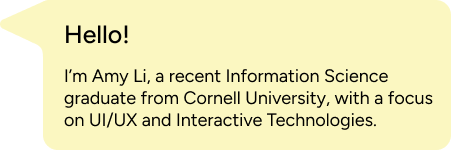
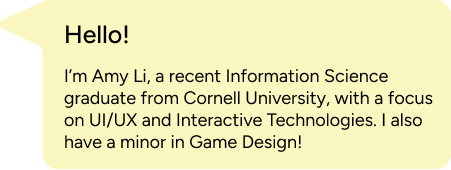
updated pages to have updated resume, and textbox

diff --git a/legooserystore.html b/legooserystore.html
@@ -18,9 +18,22 @@
 
 <body>
   <nav>
-    <ul class="nav"">
+    <ul class="nav">
       <li> <a class="hometext" href="index.html"> Amy Li </a> </li>
-      <li> <a class="navtext resumebutton" href="resources/Amy_Li_Resume_UXDesign_2025.pdf"> Resume </a> </li>
+      <li> 
+        <div>
+          <button id="resumebutton" class="navtext resumebutton"> 
+            <div class="resumebutton_organize"> 
+              <p style="margin:0px;"> Resumes </p>
+              <img id="resumeimg" class="resumeimg" src="images/dropdown_arrow.png">
+            </div>
+          </button>
+          <div id="resumemenu" class="hidden resumemenu">
+            <a class="resumeslink" href="resources/Amy_Li_Resume_ProductDesign_2025.pdf"> Product Design </a>
+            <a class="resumeslink" href="resources/Amy_Li_Resume_UXDesign_2025.pdf"> UX Design </a>
+          </div>
+        </div>  
+      </li>
     </ul>
   </nav>
 
@@ -273,6 +286,9 @@
     </div>
     <p> Website made by Amy Li</p>
   </footer>
+
+  <script src="scripts/jquery-3.7.1.js"></script>
+  <script src="scripts/resume_dropdown.js"></script>
 </body>
 
 </html>

diff --git a/lepetitraccoon.html b/lepetitraccoon.html
@@ -20,7 +20,20 @@
   <nav>
     <ul class="nav">
       <li> <a class="hometext" href="index.html"> Amy Li </a> </li>
-      <li> <a class="navtext resumebutton" href="resources/Amy_Li_Resume_UXDesign_2025.pdf"> Resume </a> </li>
+      <li> 
+        <div>
+          <button id="resumebutton" class="navtext resumebutton"> 
+            <div class="resumebutton_organize"> 
+              <p style="margin:0px;"> Resumes </p>
+              <img id="resumeimg" class="resumeimg" src="images/dropdown_arrow.png">
+            </div>
+          </button>
+          <div id="resumemenu" class="hidden resumemenu">
+            <a class="resumeslink" href="resources/Amy_Li_Resume_ProductDesign_2025.pdf"> Product Design </a>
+            <a class="resumeslink" href="resources/Amy_Li_Resume_UXDesign_2025.pdf"> UX Design </a>
+          </div>
+        </div>  
+      </li>
     </ul>
   </nav>
 
@@ -256,6 +269,9 @@
     </div>
     <p> Website made by Amy Li</p>
   </footer>
+
+  <script src="scripts/jquery-3.7.1.js"></script>
+  <script src="scripts/resume_dropdown.js"></script>
 </body>
 
 </html>

diff --git a/suechef.html b/suechef.html
@@ -20,7 +20,20 @@
   <nav>
     <ul class="nav">
       <li> <a class="hometext" href="index.html"> Amy Li </a> </li>
-      <li> <a class="navtext resumebutton" href="resources/Amy_Li_Resume_UXDesign_2025.pdf"> Resume </a> </li>
+      <li> 
+        <div>
+          <button id="resumebutton" class="navtext resumebutton"> 
+            <div class="resumebutton_organize"> 
+              <p style="margin:0px;"> Resumes </p>
+              <img id="resumeimg" class="resumeimg" src="images/dropdown_arrow.png">
+            </div>
+          </button>
+          <div id="resumemenu" class="hidden resumemenu">
+            <a class="resumeslink" href="resources/Amy_Li_Resume_ProductDesign_2025.pdf"> Product Design </a>
+            <a class="resumeslink" href="resources/Amy_Li_Resume_UXDesign_2025.pdf"> UX Design </a>
+          </div>
+        </div>  
+      </li>
     </ul>
   </nav>
 
@@ -293,6 +306,9 @@
     </div>
     <p> Website made by Amy Li</p>
   </footer>
+
+  <script src="scripts/jquery-3.7.1.js"></script>
+  <script src="scripts/resume_dropdown.js"></script>
 </body>
 
 </html>
